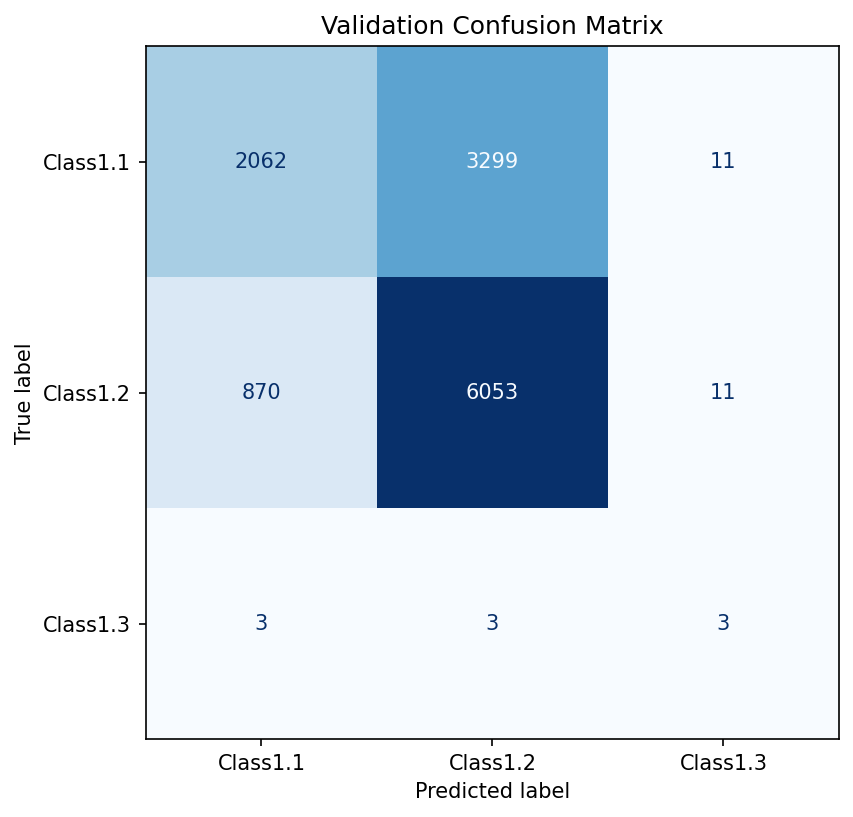
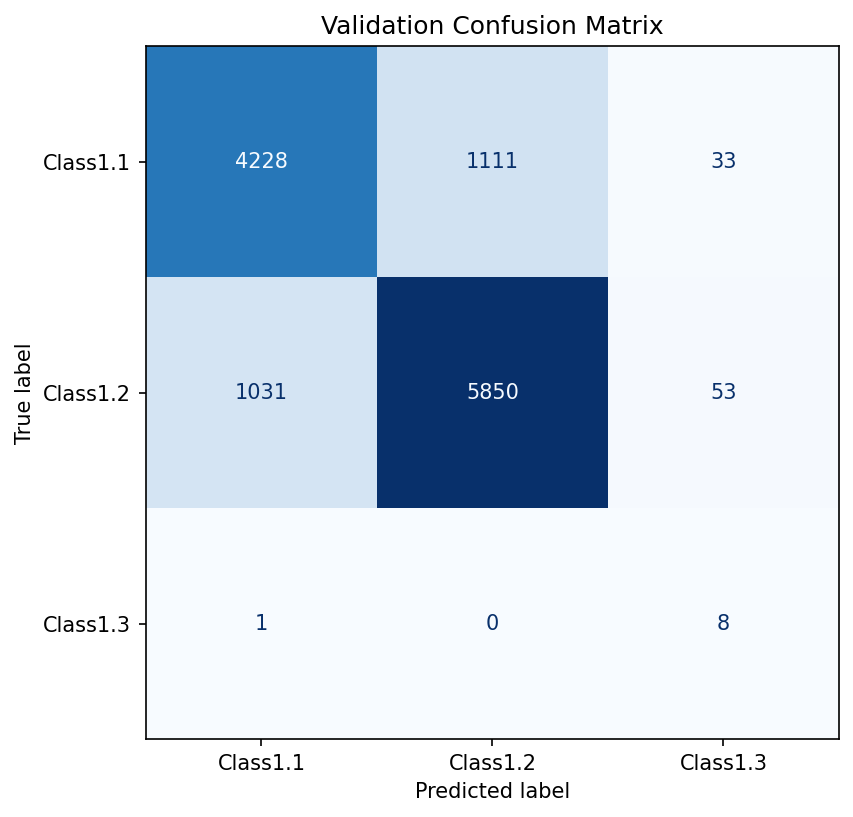
feat: add evaluation pipeline, auto_pipeline, new model outputs
New: auto_pipeline.sh, src/evaluate_pipeline.py, src/models/, data/
Updated: outputs/classification_report.txt, outputs/confusion_matrix.png

diff --git a/src/evaluate_pipeline.py b/src/evaluate_pipeline.py
@@ -1,0 +1,193 @@
+"""
+evaluate_pipeline.py — End-to-end evaluation of the full Q1→Q2→Q3 decision tree.
+
+Routes each validation image through:
+  Q1 (clf_top)  : Smooth / Features-Disk / Star-Artifact
+  Q2 (clf_edge) : Edge-on / Not-edge-on        (Features-Disk only)
+  Q3 (clf_bar)  : Bar / No-bar                 (Not-edge-on only)
+
+Outputs:
+  outputs/pipeline_report.txt        — per-node accuracy + confusion matrices
+  outputs/pipeline_confusion.png     — 3-panel confusion matrix figure
+"""
+import numpy as np
+import pandas as pd
+import matplotlib.pyplot as plt
+import tensorflow as tf
+import yaml
+from pathlib import Path
+from sklearn.metrics import classification_report, confusion_matrix, ConfusionMatrixDisplay
+from tensorflow.keras.preprocessing.image import ImageDataGenerator
+
+PROJECT_ROOT = Path(__file__).resolve().parent.parent
+_cfg = yaml.safe_load((PROJECT_ROOT / "config.yaml").read_text())
+
+IMG_H       = _cfg["training"]["img_height"]
+IMG_W       = _cfg["training"]["img_width"]
+BATCH       = _cfg["training"]["batch_size"]
+VAL_SPLIT   = _cfg["training"]["validation_split"]
+SEED        = _cfg["training"]["random_seed"]
+THRESHOLD   = _cfg["training"]["branch_threshold"]
+
+TRAIN_DIR   = str(PROJECT_ROOT / _cfg["paths"]["train_dir"])
+CSV_PATH    = str(PROJECT_ROOT / _cfg["paths"]["csv_path"])
+MODELS_DIR  = PROJECT_ROOT / _cfg["paths"]["models_dir"]
+OUTPUTS_DIR = PROJECT_ROOT / _cfg["paths"]["outputs_dir"]
+
+CLASSES_TOP  = ["Class1.1", "Class1.2", "Class1.3"]   # Smooth, Features, Artifact
+CLASSES_EDGE = ["Class2.1", "Class2.2"]                # Edge-on, Not-edge-on
+CLASSES_BAR  = ["Class4.1", "Class4.2"]                # Bar, No-bar
+
+
+# ── helpers ───────────────────────────────────────────────────────────────────
+
+def make_val_gen(df, y_col, classes):
+    dg = ImageDataGenerator(rescale=1./255, validation_split=VAL_SPLIT)
+    return dg.flow_from_dataframe(
+        dataframe=df,
+        directory=TRAIN_DIR,
+        x_col="filename",
+        y_col=y_col,
+        target_size=(IMG_H, IMG_W),
+        batch_size=BATCH,
+        class_mode="categorical",
+        subset="validation",
+        shuffle=False,
+        seed=SEED,
+    )
+
+
+def predict_all(model, gen):
+    gen.reset()
+    preds, labels = [], []
+    for _ in range(len(gen)):
+        imgs, lbl = next(gen)
+        preds.append(model.predict(imgs, verbose=0))
+        labels.append(lbl)
+    return np.concatenate(preds), np.concatenate(labels)
+
+
+def save_confusion(y_true, y_pred, names, ax, title):
+    cm = confusion_matrix(y_true, y_pred)
+    disp = ConfusionMatrixDisplay(confusion_matrix=cm, display_labels=names)
+    disp.plot(ax=ax, colorbar=False, cmap="Blues")
+    ax.set_title(title)
+
+
+# ── main ──────────────────────────────────────────────────────────────────────
+
+def main():
+    OUTPUTS_DIR.mkdir(parents=True, exist_ok=True)
+    lines = []
+
+    def log(s=""):
+        print(s)
+        lines.append(s)
+
+    log("Loading models...")
+    clf_top  = tf.keras.models.load_model(MODELS_DIR / "clf_top.keras")
+    clf_edge = tf.keras.models.load_model(MODELS_DIR / "clf_edge.keras")
+    clf_bar  = tf.keras.models.load_model(MODELS_DIR / "clf_bar.keras")
+    log(f"  clf_top  : {clf_top.output_shape}")
+    log(f"  clf_edge : {clf_edge.output_shape}")
+    log(f"  clf_bar  : {clf_bar.output_shape}")
+
+    df = pd.read_csv(CSV_PATH)
+    df["filename"] = df["GalaxyID"].astype(str) + ".jpg"
+
+    # ── Q1: top-level 3-class ─────────────────────────────────────────────────
+    log("\n=== Q1 — clf_top (Smooth / Features-Disk / Star-Artifact) ===")
+    df["top_label"] = df[CLASSES_TOP].idxmax(axis=1)
+    gen_top = make_val_gen(df, "top_label", CLASSES_TOP)
+    preds_top, labels_top = predict_all(clf_top, gen_top)
+    y_true_top = np.argmax(labels_top, axis=1)
+    y_pred_top = np.argmax(preds_top, axis=1)
+    class_names_top = list(gen_top.class_indices.keys())
+    log(classification_report(y_true_top, y_pred_top, target_names=class_names_top))
+
+    # Map generator index back to original df rows (validation subset, no shuffle)
+    val_indices = gen_top.index_array  # indices into gen_top.filenames
+
+    # ── Q2: edge-on branch (Features-Disk galaxies only) ──────────────────────
+    log("=== Q2 — clf_edge (Edge-on / Not-edge-on), Features-Disk subset ===")
+    # Features-Disk = class index for Class1.2 in top generator
+    feat_idx = gen_top.class_indices.get("Class1.2", 1)
+    features_mask = y_true_top == feat_idx
+
+    df_edge = df.iloc[val_indices[features_mask]].copy().reset_index(drop=True)
+    df_edge["edge_label"] = df_edge[CLASSES_EDGE].idxmax(axis=1)
+
+    y_true_edge, y_pred_edge, class_names_edge = [], [], []
+    if len(df_edge) > 0:
+        gen_edge = make_val_gen(df_edge, "edge_label", CLASSES_EDGE)
+        preds_edge, labels_edge = predict_all(clf_edge, gen_edge)
+        y_true_edge = np.argmax(labels_edge, axis=1)
+        # Apply branch threshold — low-confidence predictions stay as "uncertain"
+        max_conf = np.max(preds_edge, axis=1)
+        y_pred_edge = np.where(max_conf >= THRESHOLD,
+                               np.argmax(preds_edge, axis=1), -1)
+        y_pred_edge_rep = np.argmax(preds_edge, axis=1)  # for report (no -1)
+        class_names_edge = list(gen_edge.class_indices.keys())
+        log(classification_report(y_true_edge, y_pred_edge_rep,
+                                   target_names=class_names_edge))
+        log(f"  Below threshold ({THRESHOLD}): {(max_conf < THRESHOLD).sum()} / {len(max_conf)} samples")
+    else:
+        log("  No Features-Disk samples in validation split.")
+
+    # ── Q3: bar branch (Not-edge-on disks only) ───────────────────────────────
+    log("=== Q3 — clf_bar (Bar / No-bar), Not-edge-on subset ===")
+    y_true_bar, y_pred_bar, class_names_bar = [], [], []
+
+    if len(df_edge) > 0 and len(class_names_edge) > 0:
+        not_edge_idx = gen_edge.class_indices.get("Class2.2", 1)
+        not_edge_mask_local = y_true_edge == not_edge_idx
+        df_bar = df_edge.iloc[np.where(not_edge_mask_local)[0]].copy().reset_index(drop=True)
+        df_bar["bar_label"] = df_bar[CLASSES_BAR].idxmax(axis=1)
+
+        if len(df_bar) > 0:
+            gen_bar = make_val_gen(df_bar, "bar_label", CLASSES_BAR)
+            preds_bar, labels_bar = predict_all(clf_bar, gen_bar)
+            y_true_bar = np.argmax(labels_bar, axis=1)
+            y_pred_bar = np.argmax(preds_bar, axis=1)
+            class_names_bar = list(gen_bar.class_indices.keys())
+            log(classification_report(y_true_bar, y_pred_bar,
+                                       target_names=class_names_bar))
+        else:
+            log("  No Not-edge-on samples available for Q3.")
+    else:
+        log("  Skipped (no Q2 results).")
+
+    # ── Confusion matrix figure ───────────────────────────────────────────────
+    fig, axes = plt.subplots(1, 3, figsize=(16, 5))
+    fig.suptitle("Full Pipeline — Per-Node Confusion Matrices", fontsize=13)
+
+    save_confusion(y_true_top, y_pred_top, class_names_top, axes[0],
+                   "Q1: clf_top (all galaxies)")
+
+    if len(y_true_edge) > 0:
+        save_confusion(y_true_edge, np.argmax(preds_edge, axis=1),
+                       class_names_edge, axes[1],
+                       "Q2: clf_edge (Features-Disk only)")
+    else:
+        axes[1].set_visible(False)
+
+    if len(y_true_bar) > 0:
+        save_confusion(y_true_bar, y_pred_bar, class_names_bar, axes[2],
+                       "Q3: clf_bar (Not-edge-on only)")
+    else:
+        axes[2].set_visible(False)
+
+    plt.tight_layout()
+    out_fig = OUTPUTS_DIR / "pipeline_confusion.png"
+    fig.savefig(str(out_fig), dpi=150, bbox_inches="tight")
+    plt.close(fig)
+    log(f"\nConfusion matrix figure saved to {out_fig}")
+
+    # ── Save report ───────────────────────────────────────────────────────────
+    report_path = OUTPUTS_DIR / "pipeline_report.txt"
+    report_path.write_text("\n".join(lines))
+    log(f"Pipeline report saved to {report_path}")
+
+
+if __name__ == "__main__":
+    main()
